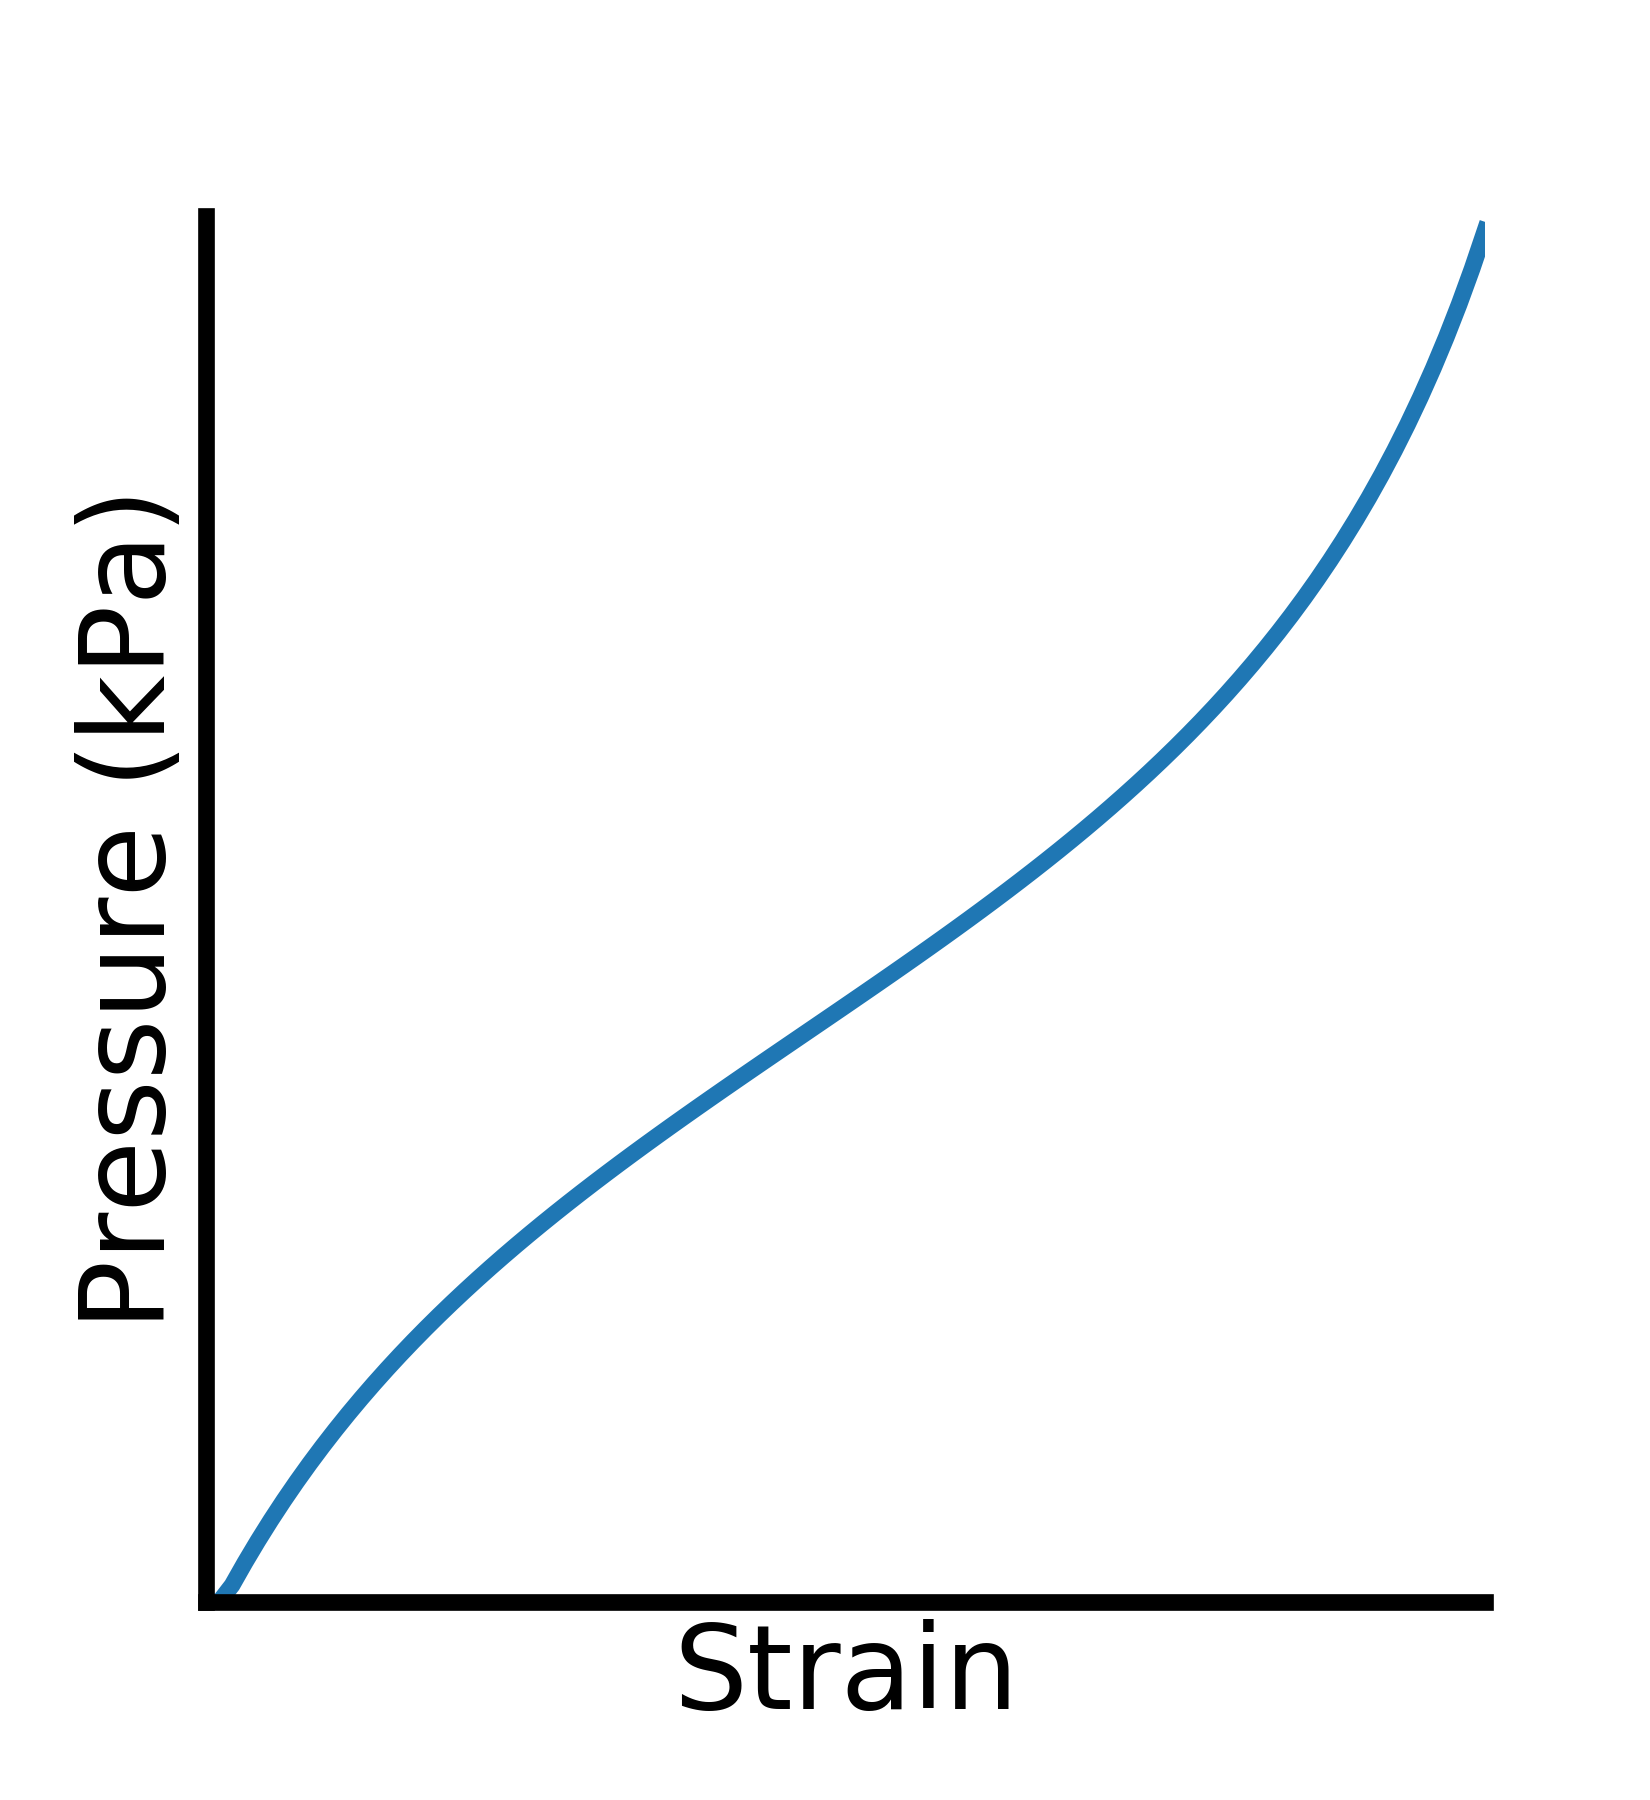
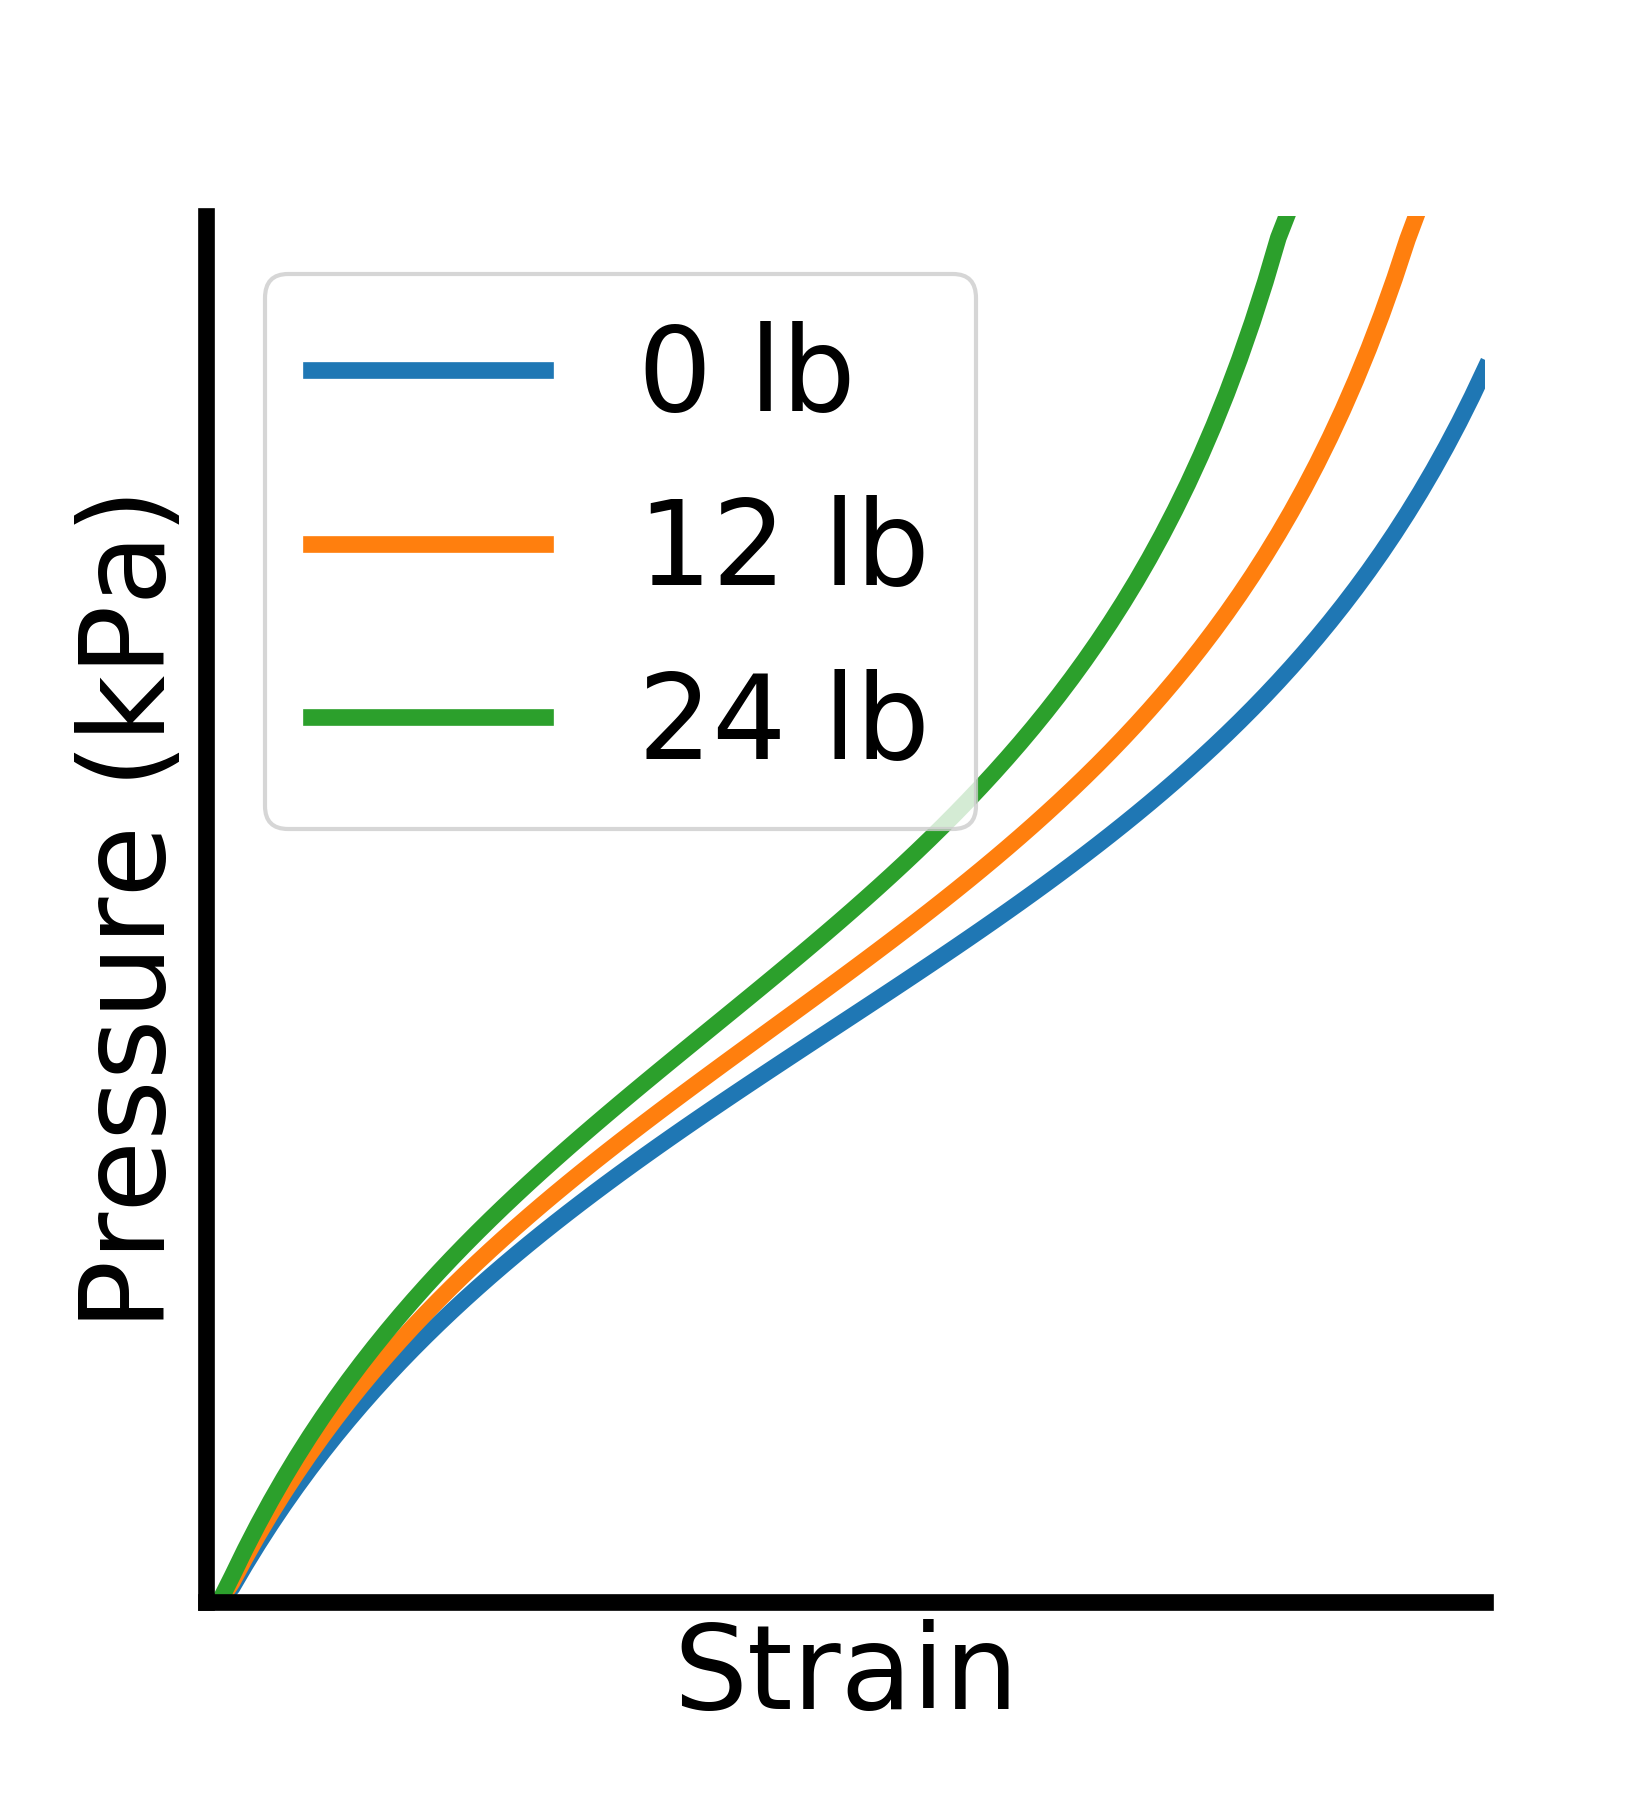
Update Strain->Pressure figure

diff --git a/Poster/plot_strain_pressure.py b/Poster/plot_strain_pressure.py
@@ -35,23 +35,23 @@ beta_r = 0 # for now
 PRESSURE_MAX = 620
 PRESSURE_MIN = 0
 
-def pressure(strain):
-    F = 0.0533
+def pressure(strain, F=0.0533):
     K = strain
     P = (a0 + a1 *
         np.tan(a2 * (K / (a4 * F + k_max)+ a3))
         + a5 * F) # kpa
     return np.clip(P, PRESSURE_MIN, PRESSURE_MAX)
 
-strain = np.linspace(0, 0.15, 100)
+max_strain = 0.16
+strain = np.linspace(0, max_strain, 100)
 p = pressure(strain)
 
 linewidth = 4
 
 fig = plt.figure(figsize=(5.5, 6,), dpi=300)
 ax = fig.add_subplot(111)
-ax.set_xlim(0, 0.15)
-ax.set_ylim(0, 620)
+ax.set_xlim(0, max_strain)
+ax.set_ylim(0, 615)
 ax.set_xticks([])
 ax.set_yticks([])
 ax.set_xlabel('Strain')
@@ -61,6 +61,9 @@ ax.spines['left'].set_linewidth(linewidth)
 ax.spines['top'].set_color('none')
 ax.spines['bottom'].set_linewidth(linewidth)
 
-ax.plot(strain, p, linewidth=linewidth)
+ax.plot(strain, pressure(strain, F=0.0), linewidth=linewidth, label='0 lb')
+ax.plot(strain, pressure(strain, F=0.05), linewidth=linewidth, label='12 lb')
+ax.plot(strain, pressure(strain, F=0.10), linewidth=linewidth, label='24 lb')
+ax.legend()
 plt.savefig('FigStrainPressure.png')
 plt.show()
